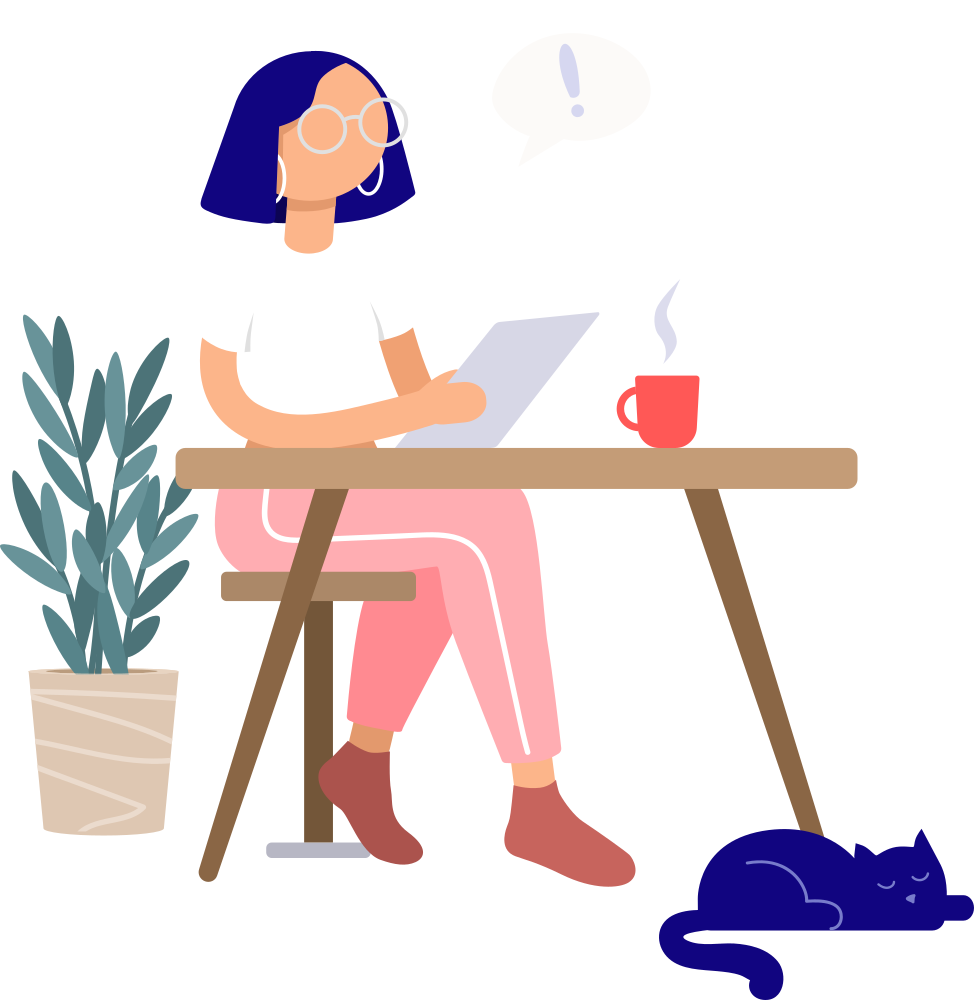
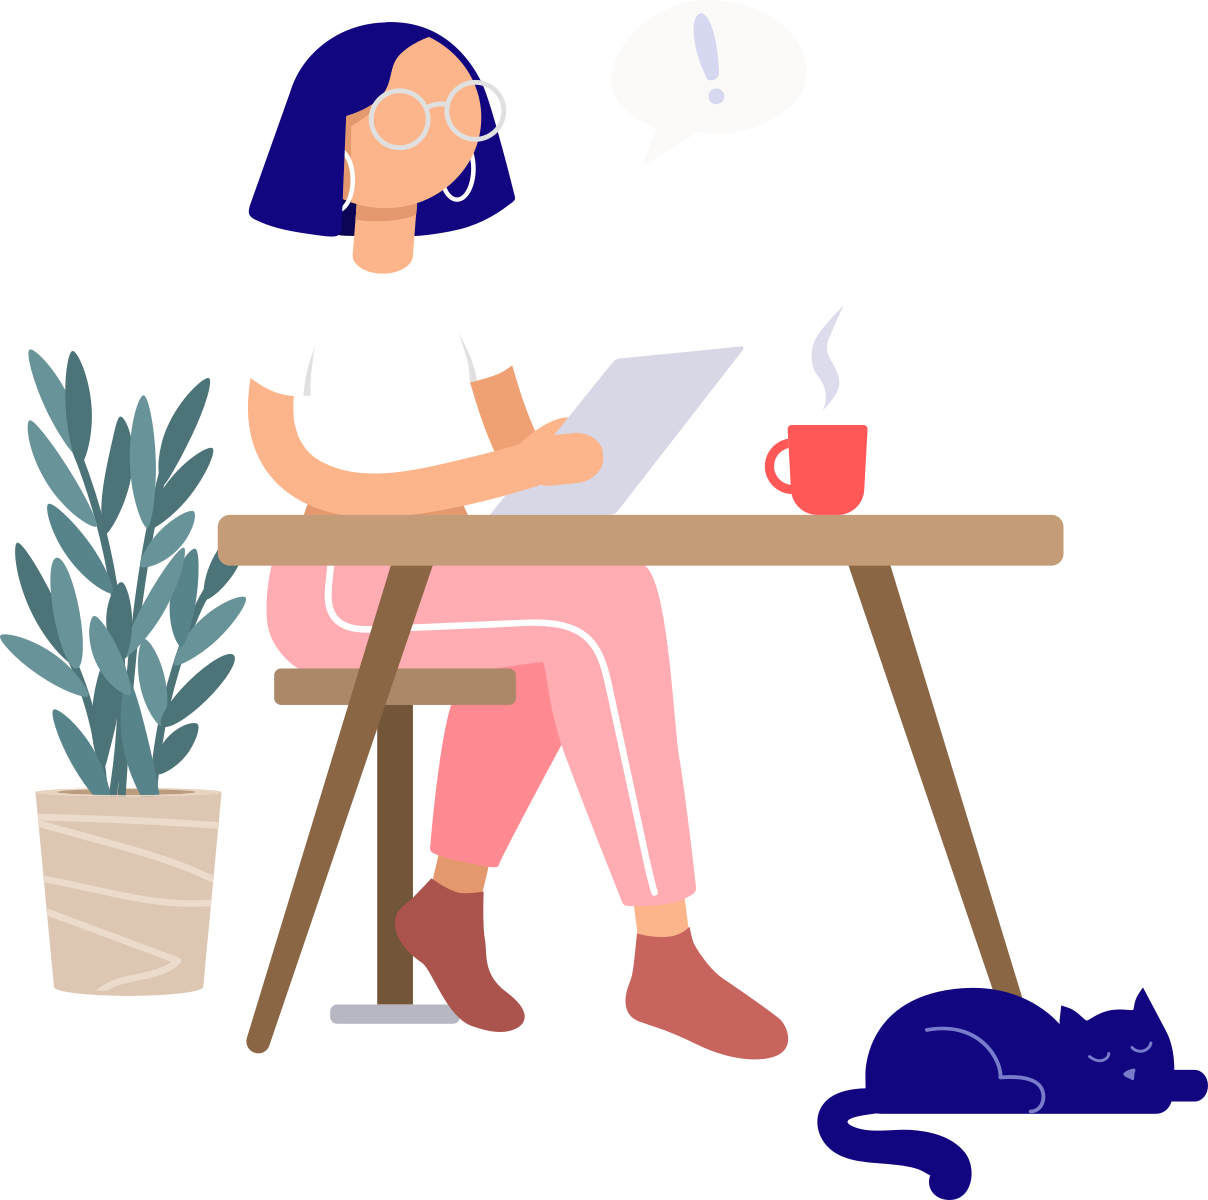
Converted to use bootstrap

diff --git a/index.html b/index.html
@@ -2,6 +2,8 @@
 <html>
 
 <head>
+    <link href="https://cdn.jsdelivr.net/npm/bootstrap@5.1.3/dist/css/bootstrap.min.css" rel="stylesheet"
+        integrity="sha384-1BmE4kWBq78iYhFldvKuhfTAU6auU8tT94WrHftjDbrCEXSU1oBoqyl2QvZ6jIW3" crossorigin="anonymous">
     <link rel="stylesheet" href="styles.css">
     <link id="favicon" rel="shortcut icon" type="image/png" href="images/favicon.png" />
     <title id="titletag">Sitting Timer</title>
@@ -9,69 +11,74 @@
 </head>
 
 <body>
-    <div class="drawerwrapper outofview" id="drawermain">
-        <div class="drawerbox">
-            <div class="drawerheader">
-                <h1>Today's Stats</h1>
-            </div>
-            <div class="drawercontent">
-                <div class="row">
-                    <h3 id="StandTotalTitle">Total Standing Time</h3>
-                    <p id="StandTotal">0:00:00</p>
-                    <h3 id="SitTotalTitle">Total Sitting Time</h3>
-                    <p id="SitTotal">0:00:00</p>
-                    <h3 id="StandSessionsTitle">Number of Standing Sessions</h3>
-                    <p id="StandSessionsCount">0</p>
-                    <h3 id="SitSessionsTitle">Number of Standing Sessions</h3>
-                    <p id="SitSessionsCount">0</p>
+    <div class="container imgbox">
+        <img class id="standingimg" src="images/standing.png" alt="standing img">
+        <img class="transparent" id="sittingimg" src="images/sitting.png" alt="sitting img">
+    </div>
+    <div class="container-fluid">
+        <div class="row justify-content-end">
+            <div class="drawerwrapper outofview col-md-4" id="drawermain">
+                <div class="card">
+                    <div class="headerdiv">
+                        <h1>Today's Stats</h1>
+                    </div>
+                    <div class="row container">
+                        <div class="col-md-12">
+                            <h3 id="StandTotalTitle">Total Standing Time</h3>
+                            <p id="StandTotal">0:00:00</p>
+                            <h3 id="SitTotalTitle">Total Sitting Time</h3>
+                            <p id="SitTotal">0:00:00</p>
+                            <h3 id="StandSessionsTitle">Number of Standing Sessions</h3>
+                            <p id="StandSessionsCount">0</p>
+                            <h3 id="SitSessionsTitle">Number of Sitting Sessions</h3>
+                            <p id="SitSessionsCount">0</p>
+                        </div>
+                    </div>
+                    <div class="row container justify-content-center">
+                        <div class="col-md-4">
+                            <button class="button1" id="closedrawer" onclick="closedrawer()">Close</button>
+                        </div>
+                    </div>
                 </div>
             </div>
-            <div class="centerButton">
-                <button class="button1" id="closedrawer" onclick="closedrawer()">Close</button>
+            <div class="col-md-8 col-12">
+                <div class="card">
+                    <div class="headerdiv cardheader">
+                        <h1>Sitting Timer</h1>
+                    </div>
+                    <div class="row container-fluid">
+                        <div class="col-md-2">
+                            <img class="icon" id="settingsBttn" src="images/gear.svg" onclick="drawerbutton()">
+                            <img class="icon" id="muteBttn" src="images/volume-up.svg" onclick="muteunmute()">
+                        </div>
+                    </div>
+                    <div class="cardcentertext">
+                        <p id="currentStance">Click Start to start your day</p>
+                    </div>
+                    <div class="row container">
+                        <div class="incardcol col-md-6">
+                            <h2 id="SitTitle">Last Sitting Session</h2>
+                            <p id="SitTime">0:00:00</p>
+                        </div>
+                        <div class="incardcol col-md-6">
+                            <h2 id="StandTitle">Last Standing Session</h2>
+                            <p id="StandTime">00:00</p>
+                        </div>
+                    </div>
+                    <div class="row container justify-content-center">
+                        <div class="col-md-4">
+                            <button class="button1" id="changebutton" onclick="changestance()">Start</button>
+                        </div>
+                    </div>
+                </div>
             </div>
         </div>
     </div>
-    <div class="row">
-        <div class="outcardcol">
-            <div class="imgbox">
-                <img id="standingimg" src="images/standing.png" alt="standing img">
-                <img class="transparent" id="sittingimg" src="images/sitting.png" alt="sitting img">
-            </div>
-        </div>
-
-        <div class="cardcol">
-            <div class="card">
-                <div class="cardheader">
-                    <h1>Sitting Timer</h1>
-                </div>
-                <div class="cardcentertext">
-                    <p id="currentStance">Click Start to start your day</p>
-                </div>
-                <div class="row">
-                    <div class="incardcol">
-                        <h2 id="SitTitle">Last Sitting Session</h2>
-                        <p id="SitTime">0:00:00</p>
-                    </div>
-                    <div class="incardcol">
-                        <h2 id="StandTitle">Last Standing Session</h2>
-                        <p id="StandTime">00:00</p>
-                    </div>
-                </div>
-                <div class="iconwrapper">
-                    <img class="icon" id="settingsBttn" src="images/settings.png" onclick="drawerbutton()">
-                    <img class="icon" id="muteBttn" src="images/soundon.png" onclick="muteunmute()">
-                </div>
-                <div class="centerButton">
-                    <button class="button1" id="changebutton" onclick="changestance()">Start</button>
-                </div>
-            </div>
-        </div>
-        <div class="credsbox">
-            <p class="small">Images by <a href="https://oblik.studio/?ref=remote-work-illustrations-gumroad">Oubilk
+    <div class="container-fluid">
+        <div class="row fixed-bottom">
+            <p class=" small">Images by <a href="https://oblik.studio/?ref=remote-work-illustrations-gumroad">Oubilk
                     Studio</a></p>
             <p class="small">Sound effects obtained from <a href="https://www.zapsplat.com">https://www.zapsplat.com</a>
-            </p>
-            <p class="small">Icons from <a href="https://www.iconfinder.com/roywj">https://www.iconfinder.com/roywj</a>
             </p>
         </div>
     </div>

diff --git a/styles.css b/styles.css
@@ -1,6 +1,6 @@
 @import url('https://fonts.googleapis.com/css2?family=Montserrat:wght@500&family=Nunito:wght@700&display=swap&https://fonts.googleapis.com/css2?family=Courier+Prime&display=swap');
 :root {
-    --cardbg: #EBEBEBBB;
+    --cardbg: #ebebebee;
     --drawerbg:#EBEBEB;
     --headercolor: #090148;
     --headertextcolor: #CCCCCC;
@@ -13,7 +13,10 @@
 
   } 
 
+
 html {min-height: 100%;}
+
+*{  box-sizing: border-box;}
 
 p.small{
   font-size: small;
@@ -21,10 +24,11 @@ p.small{
 
 .imgbox{ 
   margin:0 auto;
-  clear: left;    
+  clear: left; 
 }
 
 .imgbox img{ 
+object-fit: none;  
 position: fixed;
 left:-10px;
 z-index: -1;
@@ -35,13 +39,18 @@ transition: 3s;
   opacity:0;
   }
 
+.headerdiv{font-size: 38px;
+  text-align: center;
+  font-family: var(--titlefont);
+  border-radius: 10px 10px 0 0;
+  padding: 18px 0;
+
+}
 .drawerwrapper{ 
   position: fixed;
   left:0px;
   z-index: 2;
   transition: 1.5s;
-  padding: 20px 8px;
-  width:35%;
   box-sizing:border-box;
   }
 
@@ -49,26 +58,6 @@ transition: 3s;
   left: -150%;
   }
 
-.drawerbox{
-  border-radius: 10px;
-  background-color: var(--cardbg);
-  box-shadow: 0px 5px 20px #525151;
-}
-
-.drawerheader{
-    font-size: 38px;
-    text-align: center;
-    font-family: var(--titlefont);
-    width:100%;
-    border-radius: 10px 10px 0 0;
-    padding: 5px 0px;
-}
-
-.drawercontent{
-  width: 100%;
-  box-sizing: border-box;
-  padding: 16px;
-}
 
 h1{
     margin:0em;
@@ -88,12 +77,16 @@ h3{
 }
 
 body{
-    background: linear-gradient(0deg,var(--bggradientbtm) 0%, white 100%);
-    background-size: cover;
+    transition: 1.5s;
+    background-repeat: no-repeat;
     font-size: 24px;
     font-family: var(--basefont);
     color: var(--mainfontcolor);
-    height: 100%;}
+    height: 100%;
+    background-image: linear-gradient(0deg,var(--bggradientbtm) 0%, white 100%); /* W3C */
+}
+
+
 
 p.warning{
     color:var(--warningcolor)}
@@ -107,67 +100,30 @@ p.bonus{
   justify-content: center;
   float:left;
   width: 35%;
-  padding: 150px 4px;
   box-sizing:border-box;
   }
 
-
-.cardcol{
-  float:left;
-  width: 65%;
-  margin:auto;
-  padding: 20px 4px;
-  box-sizing:border-box;
-  }
-
-.incardcol{
-  float:left;
-  width:40%;
-  padding: 0% 5% 60px;
-  }
-
-.cardcentertext{text-align: center;margin: 2em;}
+.cardcentertext{text-align: center;}
 
 .card{
-  clear: left;    
+  margin-top: 60px;
   background-color: var(--cardbg);
   border-radius: 10px;
-  align-self: right;
   box-shadow: 0px 5px 20px #525151;
-  margin-bottom: 72px;}
+}
 
 .cardheader{
-    background-color: var(--headercolor);
-    color: var(--headertextcolor);
-    font-size: 38px;
-    text-align: center;
-    font-family: var(--titlefont);
-    width:100%;
-    border-radius: 10px 10px 0 0;
-    padding: 5px 0px;
-
+  background-color: var(--headercolor);
+  color: var(--headertextcolor);
 }
 
-.iconwrapper{
-  padding: 0% 5%;
-}
 
 img.icon{
   cursor: pointer;
   height: 32px;
+  margin:12px 0;
+  filter: invert(16%) sepia(20%) saturate(0%) hue-rotate(237deg) brightness(89%) contrast(84%)
 }
-/* Clear floats after the columns */
-.row:after {
-    content: "";
-    display: table;
-    clear: both;
-  }
-
-.centerButton {
-    width: 40%;
-    margin: 0px 30%;
-  }
-  
 
 .button1{
     cursor: pointer;
@@ -180,7 +136,7 @@ img.icon{
     width:100%;
     transition-duration: 0.4s;
     box-shadow: 0 6px 8px 0 rgba(0,0,0,0.24), 0 5px 10px 0 rgba(0,0,0,0.19);
-    margin-bottom:30px
+    margin:25px 0;
   }
 
 .button1:hover {
@@ -192,8 +148,3 @@ img.icon{
     box-shadow: 0 6px 8px 0 rgba(0,0,0,0.24), 0 5px 10px 0 rgba(0,0,0,0.19);
 }
 
-.credsbox{ 
-  position: fixed;
-  bottom: 20px; 
-  right:20px  
-}

diff --git a/main.js b/main.js
@@ -43,7 +43,8 @@ let green = 1;
 
 function changestance() {
     refreshStatus()
-
+    $('#standingimg').toggleClass('transparent')
+    $('#sittingimg').toggleClass('transparent')
     if (stance !== "sitting") {
         standToSit();
     } else {
@@ -60,10 +61,7 @@ function refreshStatus() {
     clearInterval(TextFlashInterval)
     $('#SitTime').removeClass('warning');
     $('#StandTime').removeClass('bonus');
-    $('#standingimg').toggleClass('transparent');
-    $('#sittingimg').toggleClass('transparent');
     alarmtriggered = false;
-
 }
 
 function standToSit() {
@@ -78,6 +76,8 @@ function standToSit() {
     timeonclick = new Date().getTime();
     sitTimerTotalOnclick = sitTimerTotal;
     sitTimerIntervals = setInterval(updateSitTimer, 50);
+    $('body').removeClass('standingbg');
+    $('body').addClass('sittingbg');
 }
 
 function sitToStand() {
@@ -92,6 +92,10 @@ function sitToStand() {
     timeonclick = new Date().getTime();
     standTimerTotalOnclick = standTimerTotal;
     standTimerIntervals = setInterval(updateStandtimer, 50);
+    $('body').removeClass('sittingbg');
+    $('body').addClass('standingbg');
+
+
 }
 
 
@@ -197,12 +201,12 @@ function drawerbutton() {
 function muteunmute() {
     if (mute === true) {
         mute = false;
-        $('#muteBttn').attr("src", "images/soundon.png")
+        $('#muteBttn').attr("src", "images/volume-up.svg")
 
     }
     else if (mute === false) {
         mute = true;
-        $('#muteBttn').attr("src", "images/muted.png")
+        $('#muteBttn').attr("src", "images/volume-mute.svg")
 
     }
 }
